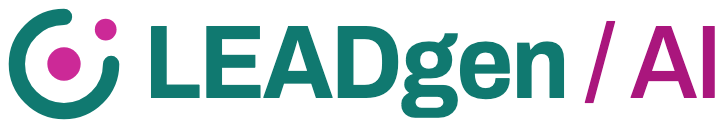
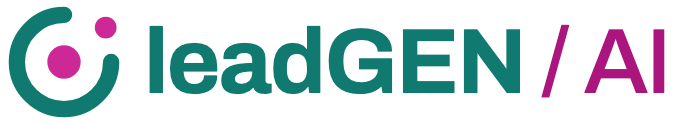
Call the app leadGEN / AI everywhere
The installed app (manifest name and short_name), the browser tab (<screen> · leadGEN / AI),
the header's wordmark and the name a screen reader hears for it, the digest's heading and the
wordmark image on the README and every guide now read leadGEN / AI. The image is rendered
again from the header's mark in Archivo, in the light theme's colours on a transparent
ground. The header's accessible name still said Annusa AI from a rename that was dropped.

Changed region(s): [[0.0311, 0.0484, 0.9956, 0.9435], [0.0311, 0.871, 0.0622, 0.8952], [0.0311, 0.0968, 0.0622, 0.121]]

diff --git a/frontend/src/app/core/i18n/title.strategy.spec.ts b/frontend/src/app/core/i18n/title.strategy.spec.ts
@@ -35,7 +35,7 @@ describe('CatalogTitleStrategy', () => {
     it('sets the translated screen name followed by the brand', async () => {
         await RouterTestingHarness.create('/dashboard');
 
-        expect(TestBed.inject(Title).getTitle()).toBe('Dashboard · Lead Generation');
+        expect(TestBed.inject(Title).getTitle()).toBe('Dashboard · leadGEN / AI');
     });
 
     it('sets the brand alone on a route without a title', async () => {
@@ -50,7 +50,7 @@ describe('CatalogTitleStrategy', () => {
         transloco.setTranslation(de, 'de');
         transloco.setActiveLang('de');
 
-        expect(TestBed.inject(Title).getTitle()).toBe(`${de.title.dashboard} · Lead Generation`);
+        expect(TestBed.inject(Title).getTitle()).toBe(`${de.title.dashboard} · leadGEN / AI`);
     });
 
     it('renders every route title of the application as it read before the titles became keys', () => {
@@ -60,15 +60,15 @@ describe('CatalogTitleStrategy', () => {
         );
 
         expect(rendered).toEqual({
-            '/dashboard': 'Dashboard · Lead Generation',
-            '/analytics': 'Analytics · Lead Generation',
-            '/shortlist': 'Shortlist · Lead Generation',
-            '/shortlist/:id': 'Offer · Lead Generation',
-            '/pipeline': 'Pipeline · Lead Generation',
-            '/pipeline/:id': 'Offer · Lead Generation',
-            '/sources': 'Sources · Lead Generation',
-            '/sources/:id': 'Source · Lead Generation',
-            '/workflow': 'Workflow · Lead Generation',
+            '/dashboard': 'Dashboard · leadGEN / AI',
+            '/analytics': 'Analytics · leadGEN / AI',
+            '/shortlist': 'Shortlist · leadGEN / AI',
+            '/shortlist/:id': 'Offer · leadGEN / AI',
+            '/pipeline': 'Pipeline · leadGEN / AI',
+            '/pipeline/:id': 'Offer · leadGEN / AI',
+            '/sources': 'Sources · leadGEN / AI',
+            '/sources/:id': 'Source · leadGEN / AI',
+            '/workflow': 'Workflow · leadGEN / AI',
         });
     });
 });

diff --git a/frontend/src/app/core/i18n/title.strategy.ts b/frontend/src/app/core/i18n/title.strategy.ts
@@ -7,14 +7,14 @@ import {map, of, Subject, switchMap} from 'rxjs';
 
 /**
  * The application's name in the browser tab, after every screen name and alone where a
- * route has none. It is the text `src/index.html` shows before the first navigation, and
- * not the `LEADgen` wordmark the header draws: the two are separate things.
+ * route has none. It is the text `src/index.html` shows before the first navigation and the
+ * installed app's name in the manifest, and it spells the wordmark the header draws.
  */
-export const BRAND = 'Lead Generation';
+export const BRAND = 'leadGEN / AI';
 
 /**
  * Route titles are catalog keys (`title.dashboard`), and the tab reads
- * `<screen name> · Lead Generation` in the active language.
+ * `<screen name> · leadGEN / AI` in the active language.
  *
  * <p>`selectTranslate` rather than `translate`: the catalogs are fetched over HTTP, so the
  * first navigation can arrive before one has loaded, and a synchronous lookup would put the

diff --git a/frontend/src/app/shared/brand-mark/brand-mark.spec.ts b/frontend/src/app/shared/brand-mark/brand-mark.spec.ts
@@ -11,7 +11,7 @@ describe('BrandMark', () => {
       expect(mark.getAttribute('aria-label')).toBeNull();
       expect(mark.getAttribute('aria-hidden')).toBe('true');
         expect(fixture.nativeElement.querySelector('.wordmark').getAttribute('aria-label')).toBe(
-            'Annusa AI',
+            'leadGEN / AI',
         );
     });
 
@@ -22,7 +22,7 @@ describe('BrandMark', () => {
 
       const mark: HTMLElement = fixture.nativeElement.querySelector('.mark');
       expect(mark.getAttribute('role')).toBe('img');
-      expect(mark.getAttribute('aria-label')).toBe('Annusa AI');
+      expect(mark.getAttribute('aria-label')).toBe('leadGEN / AI');
       expect(mark.getAttribute('aria-hidden')).toBeNull();
         expect(fixture.nativeElement.querySelector('.wordmark')).toBeNull();
     });

diff --git a/frontend/src/app/app.routes.ts b/frontend/src/app/app.routes.ts
@@ -7,7 +7,7 @@ import {Section} from '@core/theme/section.model';
  * `title` is set per route rather than in a component: the browser tab is the only place
  * two open screens of this application are told apart, and a route that forgets it inherits
  * whichever title happened to be set last. It is a catalog key under `title.*`, and
- * `core/i18n/title.strategy.ts` turns it into `<screen name> · Lead Generation` in the active
+ * `core/i18n/title.strategy.ts` turns it into `<screen name> · leadGEN / AI` in the active
  * language.
  *
  * The unknown path redirects rather than showing a not-found page. There is nothing here a

diff --git a/frontend/src/app/core/pwa/manifest.spec.ts b/frontend/src/app/core/pwa/manifest.spec.ts
@@ -182,8 +182,8 @@ describe('the web app manifest (ISC-327)', () => {
     const manifest = JSON.parse(readFileSync(MANIFEST, 'utf8')) as Manifest;
 
     it('names the app in English, the same words as the page title', () => {
-        expect(manifest.name).toBe('Lead Generation');
-        expect(manifest.short_name).toBe('Leadgen');
+        expect(manifest.name).toBe('leadGEN / AI');
+        expect(manifest.short_name).toBe('leadGEN / AI');
         expect(manifest.lang).toBe('en');
         expect(manifest.description.length).toBeGreaterThan(0);
     });

diff --git a/frontend/src/app/core/theme/theme.store.spec.ts b/frontend/src/app/core/theme/theme.store.spec.ts
@@ -150,7 +150,7 @@ describe('the inline theme script (ISC-333)', () => {
      * without it the script has to create the tag rather than skip the write.
      */
     function runInlineScript(stored: string | null, osDark: boolean, withStaticMeta = true): Document {
-        const doc = document.implementation.createHTMLDocument('Lead Generation');
+        const doc = document.implementation.createHTMLDocument('leadGEN / AI');
         if (withStaticMeta) {
             const meta = doc.createElement('meta');
             meta.name = 'theme-color';

diff --git a/frontend/src/app/shared/brand-mark/brand-mark.css b/frontend/src/app/shared/brand-mark/brand-mark.css
@@ -49,8 +49,8 @@
     white-space: nowrap;
 }
 
-/* The name is ANNUSA AI (the operator's word, 2026-09-24), written ANNUSA|AI with the pipe in the tail: the two halves
-   differ in weight as well as in colour, so the split reads at 26px without a gap. */
+/* The name is leadGEN / AI (the operator's word, 2026-09-29), the slash in the tail: the two halves differ in weight
+   as well as in colour, so the split reads at 26px without a gap. */
 .wordmark-head {
     font-variation-settings: 'opsz' 18,
     'wght' 700;

diff --git a/frontend/src/app/shared/brand-mark/brand-mark.ts b/frontend/src/app/shared/brand-mark/brand-mark.ts
@@ -22,7 +22,7 @@ export class BrandMark {
     readonly size = input(28);
     readonly wordmark = input(true);
     /** Carried by the wordmark when it is visible, by the mark alone when it is not. */
-    readonly label = input('Annusa AI');
+    readonly label = input('leadGEN / AI');
 
     protected readonly width = computed(() =>
         Math.round((this.size() * BrandMark.INTRINSIC.width) / BrandMark.INTRINSIC.height),

diff --git a/frontend/src/app/shared/brand-mark/brand-mark.html b/frontend/src/app/shared/brand-mark/brand-mark.html
@@ -25,7 +25,7 @@
          the role/aria-label on the wrapper. -->
     @if (wordmark()) {
         <span class="wordmark" role="img" [attr.aria-label]="label()">
-      <span class="wordmark-head" aria-hidden="true">LEADgen</span
+      <span class="wordmark-head" aria-hidden="true">leadGEN</span
       ><span class="wordmark-tail" aria-hidden="true"> / AI</span>
     </span>
     }

diff --git a/frontend/src/index.html b/frontend/src/index.html
@@ -2,7 +2,7 @@
 <html lang="en">
 <head>
     <meta charset="utf-8"/>
-    <title>Lead Generation</title>
+    <title>leadGEN / AI</title>
     <base href="/"/>
     <meta name="viewport" content="width=device-width, initial-scale=1"/>
     <meta name="color-scheme" content="light dark"/>

diff --git a/backend/src/main/java/de/codeministry/leadgen/digest/DigestService.java b/backend/src/main/java/de/codeministry/leadgen/digest/DigestService.java
@@ -178,7 +178,7 @@ public class DigestService {
 
     private String renderText(LocalDate day, List<Section> sections) {
         StringBuilder out = new StringBuilder();
-        out.append("Lead Generation, ").append(day).append('\n');
+        out.append("leadGEN / AI, ").append(day).append('\n');
         out.append("=".repeat(60)).append("\n\n");
 
         for (Section section : sections) {
@@ -214,14 +214,14 @@ public class DigestService {
     private String renderHtml(LocalDate day, List<Section> sections) {
         StringBuilder out = new StringBuilder();
         out.append("<!doctype html>\n<html lang=\"en\"><head><meta charset=\"utf-8\">")
-                .append("<title>Lead Generation, ")
+                .append("<title>leadGEN / AI, ")
                 .append(day)
                 .append("</title>")
                 .append("<style>body{font-family:system-ui,sans-serif;max-width:52rem;margin:2rem auto;padding:0 1rem}")
                 .append("h2{margin-top:2rem}article{border-top:1px solid #ddd;padding:.75rem 0}")
                 .append(".score{font-variant-numeric:tabular-nums;font-weight:600}")
                 .append(".meta,.reason{color:#555;font-size:.9rem}</style></head><body>\n")
-                .append("<h1>Lead Generation, ")
+                .append("<h1>leadGEN / AI, ")
                 .append(day)
                 .append("</h1>\n");
 

diff --git a/CHANGELOG.md b/CHANGELOG.md
@@ -224,6 +224,11 @@ may change in any release. See the status note in the README.
 
 ### Changed
 
+- **The name is leadGEN / AI everywhere.** The installed app (manifest `name` and `short_name`), the
+  browser tab (`<screen> · leadGEN / AI`), the header's wordmark and the name a screen reader hears for
+  it, the digest's heading, and the wordmark image on the README and every guide. The header's label
+  still said Annusa AI from a rename that was dropped.
+
 - **URLs derived from a request name what the client used.** `server.forward-headers-strategy:
   native` reads `X-Forwarded-Proto` and `-Host` from a private or loopback proxy, so behind the
   compose nginx or an ingress that terminates TLS the api names `https://` and the public host.
